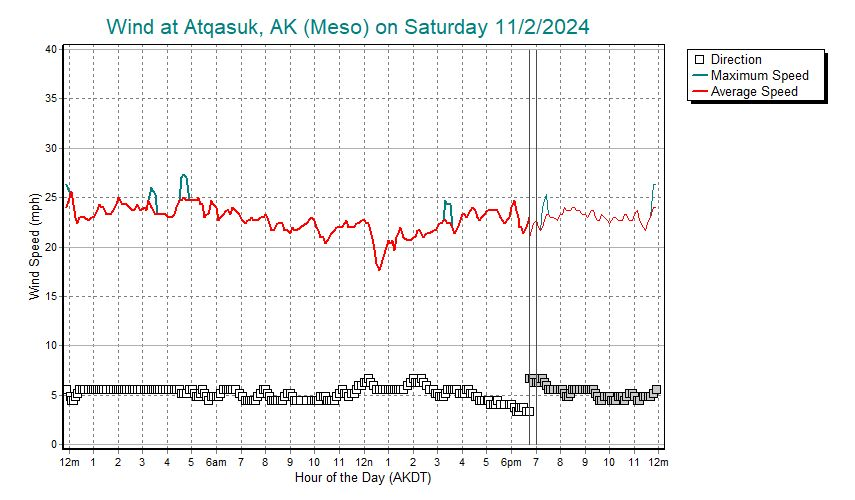
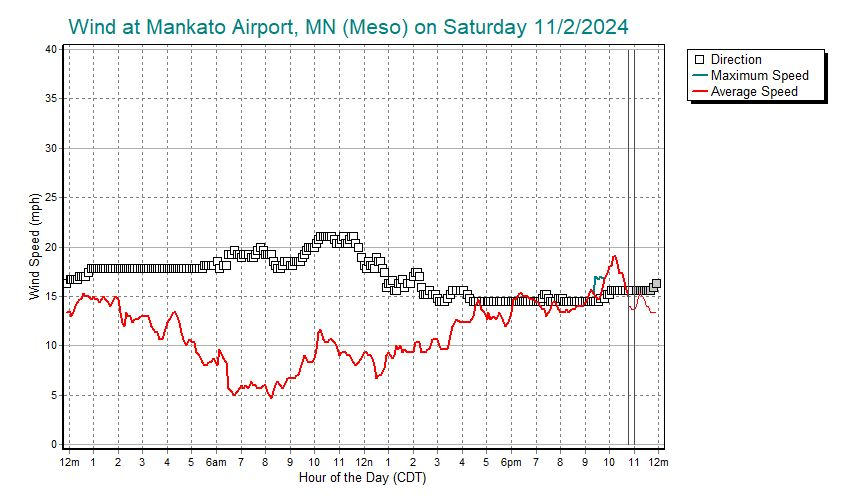
another update

diff --git a/charts.html b/charts.html
@@ -88,7 +88,7 @@
 	<p><b><font face="Arial" size="5">Samples from Rosy.asp</font></b></p>
    </div>
    <p><span>
-(24-hour charts updated Saturday, November 02, 2024 at 10:00PM Central).
+(24-hour charts updated Saturday, November 02, 2024 at 11:00PM Central).
    </span></p>
    <p>The orginal ASP page is named Rosy, a nickname windsurfers from the Tri-Cities gave Roosevelt, a sailing site on the east end of the Columbia River gorge.</p>
 	<p>This first pair of sample charts, wind and temperature, is updated every 

diff --git a/charts_input.html b/charts_input.html
@@ -88,7 +88,7 @@
 	<p><b><font face="Arial" size="5">Samples from Rosy.asp</font></b></p>
    </div>
    <p><span>
-(24-hour charts updated Saturday, November 02, 2024 at 10:00PM Central).
+(24-hour charts updated Saturday, November 02, 2024 at 11:00PM Central).
    </span></p>
    <p>The orginal ASP page is named Rosy, a nickname windsurfers from the Tri-Cities gave Roosevelt, a sailing site on the east end of the Columbia River gorge.</p>
 	<p>This first pair of sample charts, wind and temperature, is updated every 
